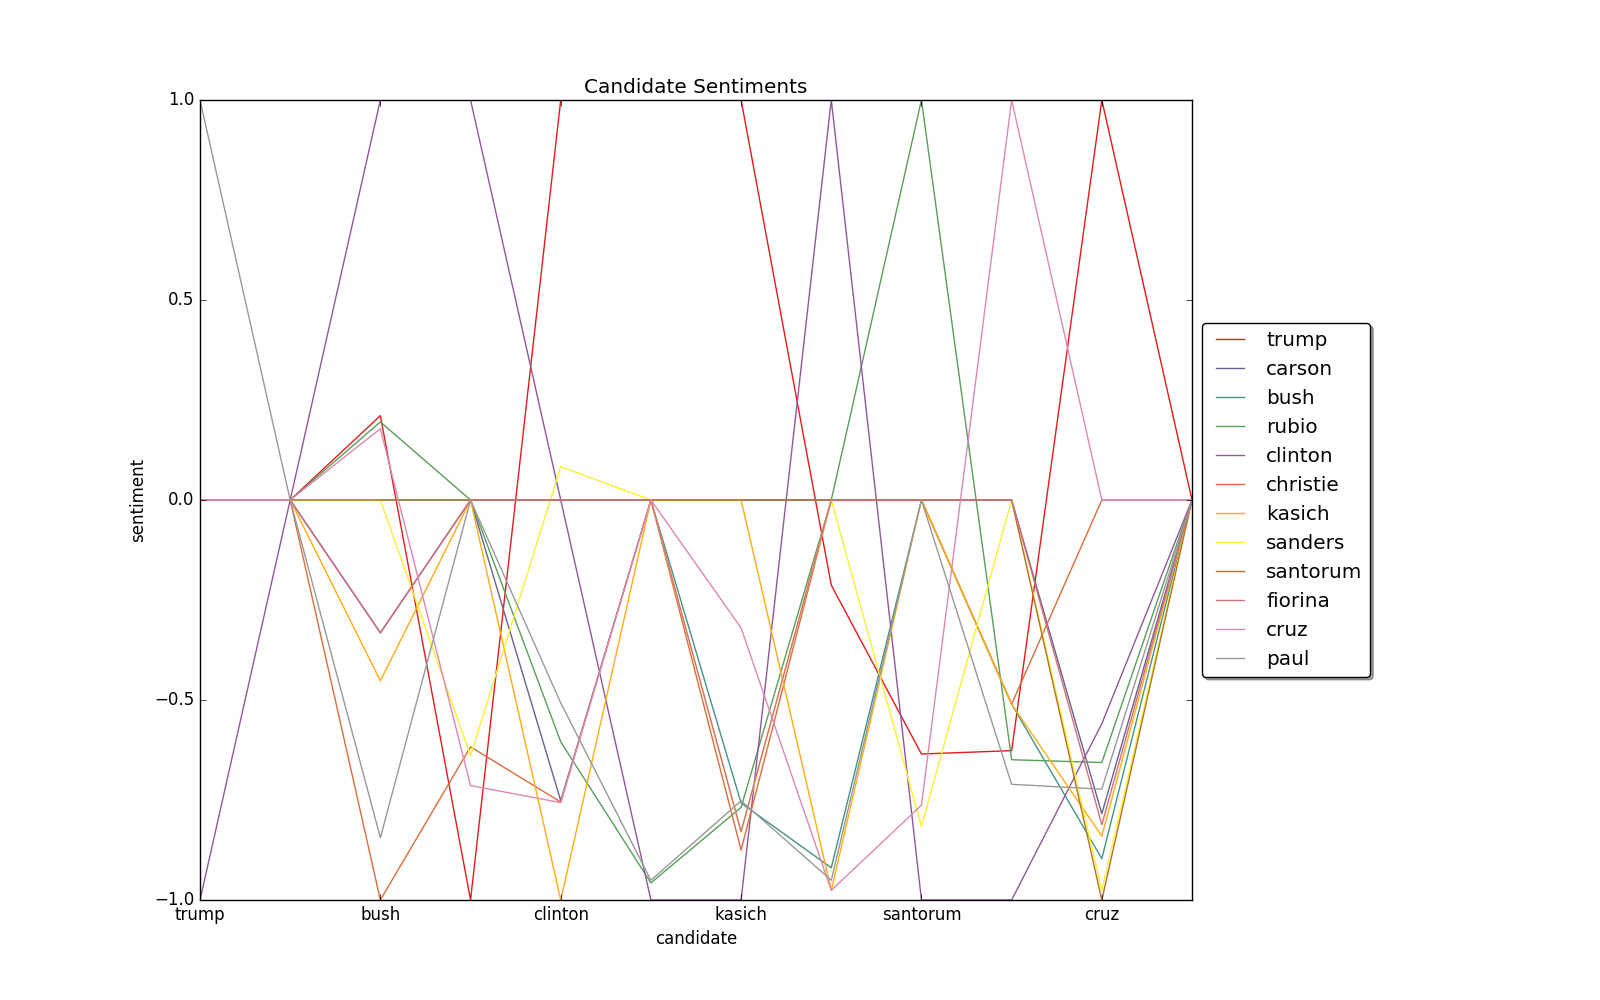
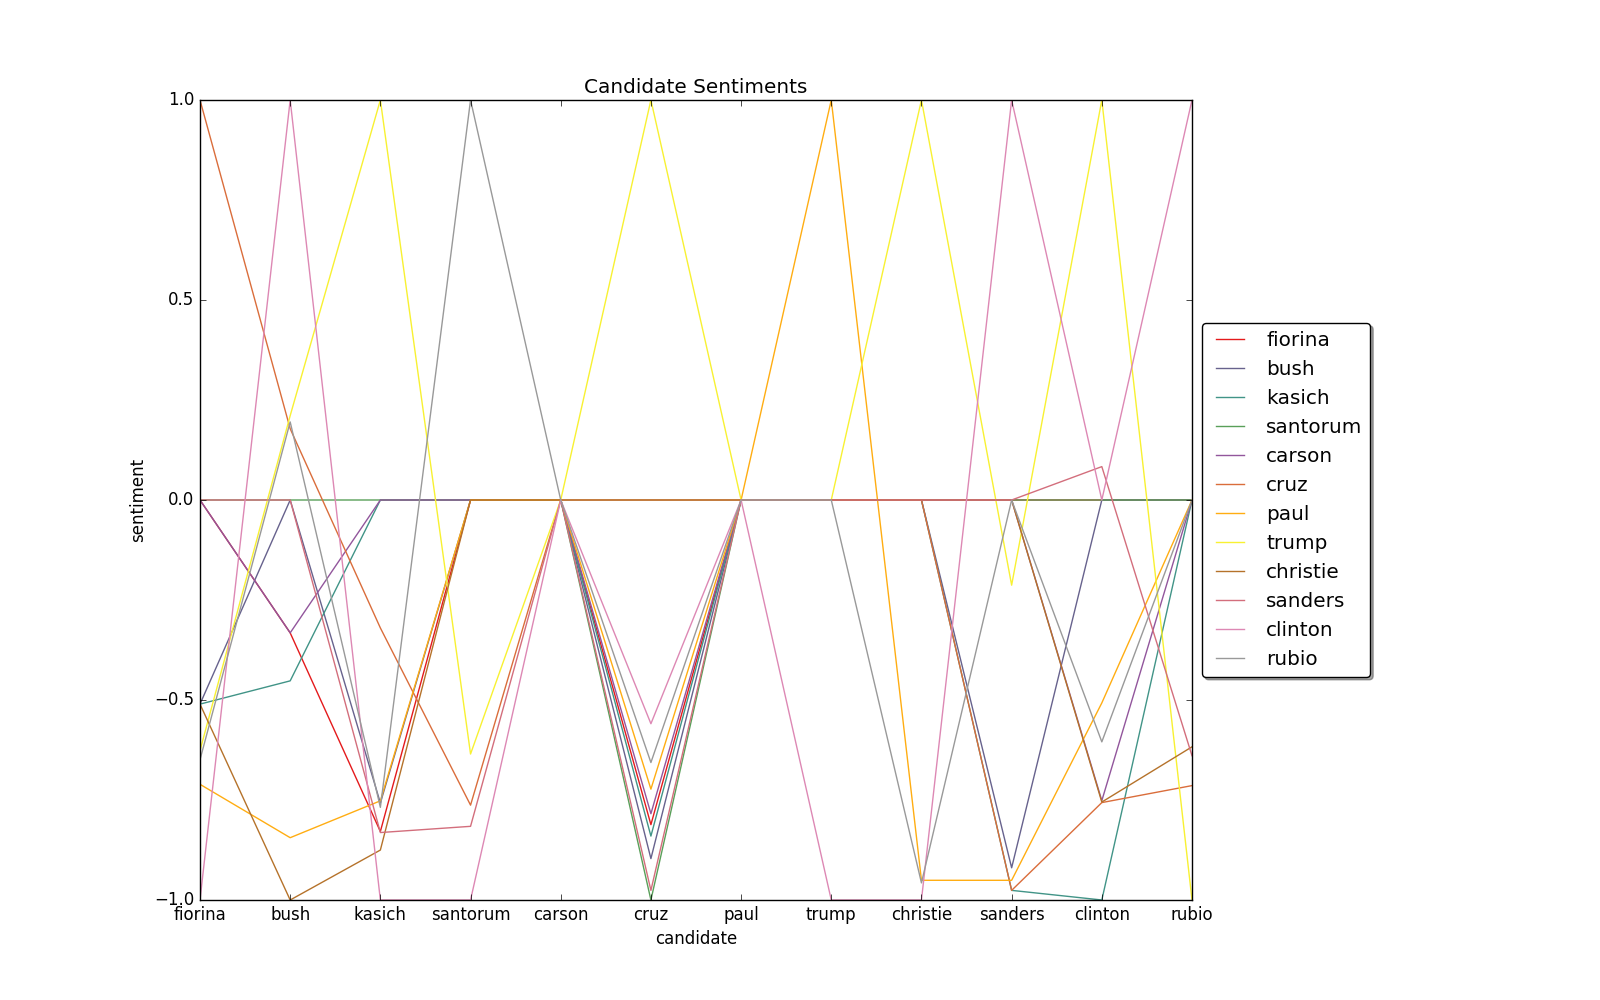
Added labels to all candidates on graph

diff --git a/src/sentiment.py b/src/sentiment.py
@@ -58,6 +58,8 @@ def show(data_dirs=_data_dirs):
     ax = df.plot(colormap='Set1', figsize=(16, 10), title='Candidate Sentiments')
     ax.set_xlabel('candidate')
     ax.set_ylabel('sentiment')
+    ax.set_xticks(np.arange(len(cand_ids)))
+    ax.set_xticklabels(cand_ids)
     box = ax.get_position()
     ax.set_position([box.x0, box.y0, box.width * 0.8, box.height])
     plt.legend(loc='center left', bbox_to_anchor=(1, 0.5), fancybox=True, shadow=True, ncol=1)
